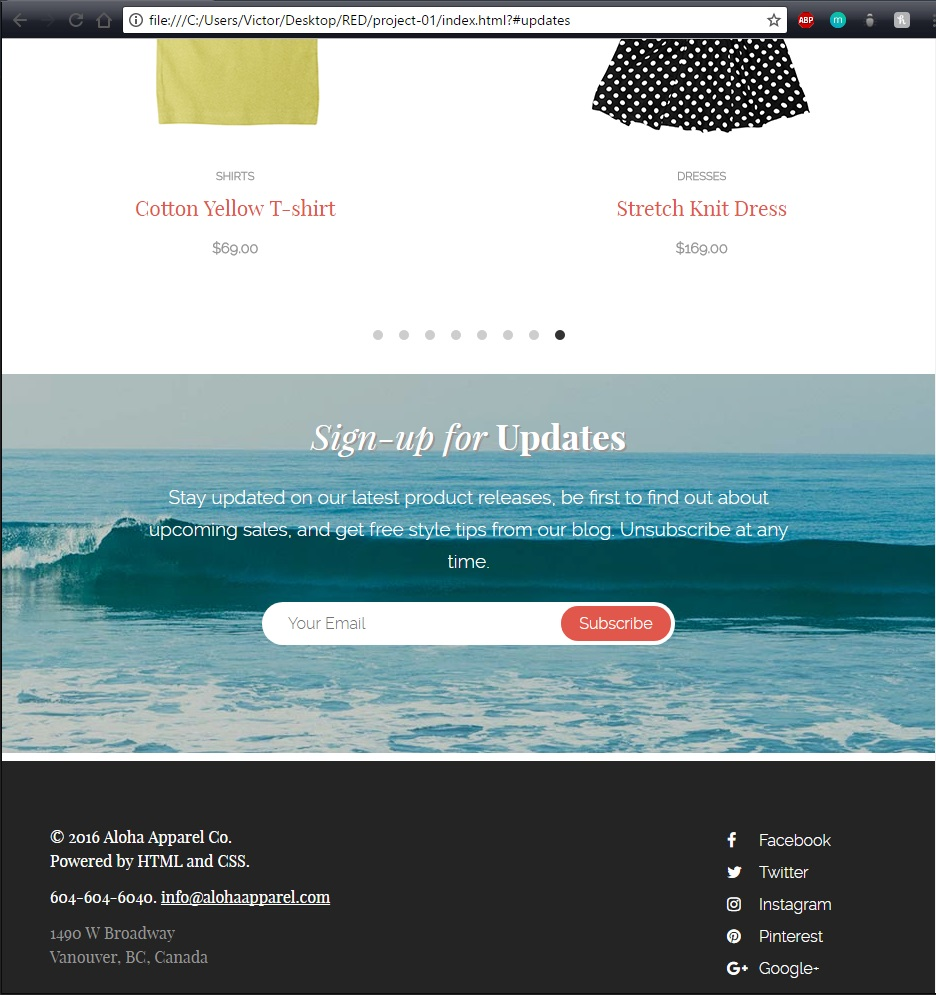
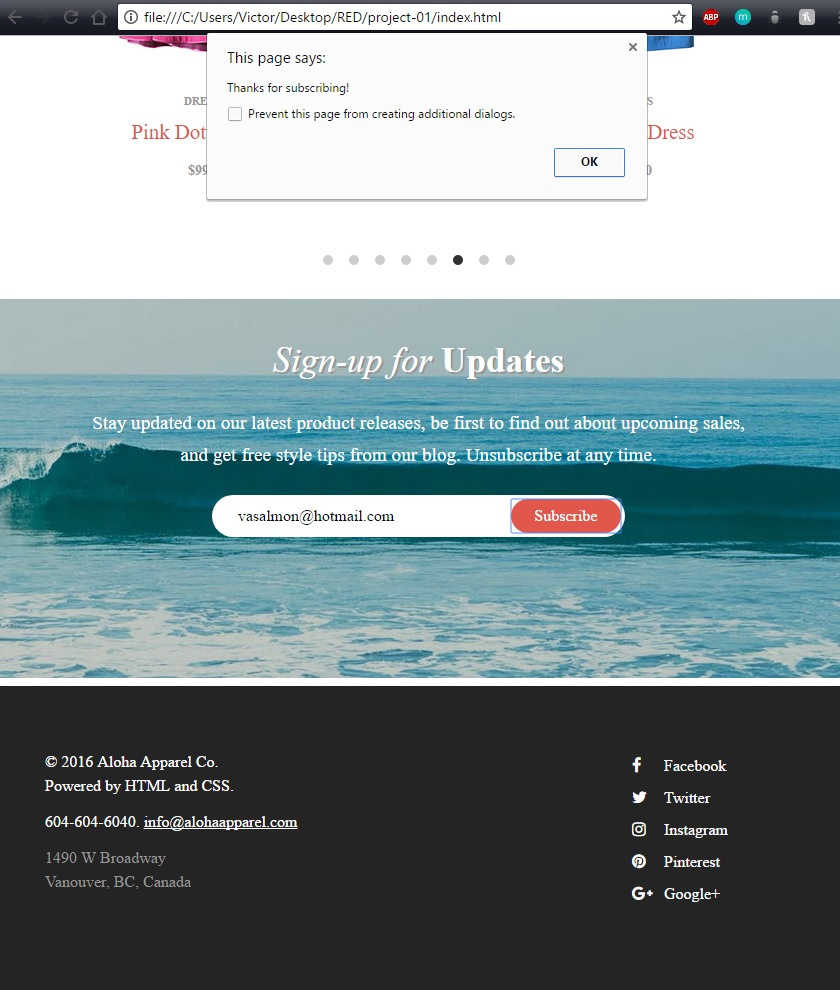
Readme copy written to Carousel. Tablet e-mail image modified

diff --git a/README.md b/README.md
@@ -1,10 +1,51 @@
 # Aloha Apparel Co.
-### RED Academy Portfolio Project 01
+RED Academy Portfolio Project 01
 
 ## Mobile-First, Intuitive Layout
-The mobile-first approach styles for any browser and uses media queries to modify the styles along break-points at min-width: 600px for tablets and min-width: 1240 px for desktop.
+This apparel sales website uses a responsive, mobile-first approach through scalable units, percentages, and CSS media queries to modify mobile styles along break-points and optimize use for tablets (600px) and desktops (1240px).
 
-[<img src="http://www.google.com.au/images/nav_logo7.png">](http://google.com.au/)
+## Navigation
+Compact, easy to use navigation menus clearly expose the layout while incorporating smooth scrolling. If we view the page first as a Tablet, we see a clean looking header.
+[<img src="https://github.com/vasalmon/aloha/blob/master/readme/Aloha%20Tablet%20Nav.jpg">](Aloha Nav on Tablet)
+
+The responsive mobile-first design uses an elegant flexbox solution to quickly and easily compact the width of the header by shifting the order of the flexbox items, pushing the nav to another row and creating a light border.
+[<img src="https://github.com/vasalmon/aloha/blob/master/readme/Aloha%20Mobile%20Nav.jpg">](Aloha Nav on Mobile)
+
+The view from Desktop is similar to Tablet but images are larger for a richer experience.
+[<img src="https://github.com/vasalmon/aloha/blob/master/readme/Aloha%20Desk%20Nav.jpg">](Aloha Nav on Desktop)
+
+## Shop
+The shopping area maximizes its use of visual real estate filling as much of the screen with images as possible while retaining a minimal design.
+[<img src="https://github.com/vasalmon/aloha/blob/master/readme/Aloha%20Mobile%20Shop.jpg">](Aloha Shop on Mobile)
+
+In Tablet, flexbox easily pops the tiles onto two lines making better use of the additional width.
+[<img src="https://github.com/vasalmon/aloha/blob/master/readme/Aloha%20Tablet%20Shop.jpg">](Aloha Shop on Tablet)
+
+Finally, in Desktop, the tiles continue to scale to make use of the space available.
+[<img src="https://github.com/vasalmon/aloha/blob/master/readme/Aloha%20Desk%20Shop.jpg">](Aloha Shop on Desktop)
+
+## Carousel: Flickity
+The carousel is a jQuery implementation of Flickity with its options set for the cleanest experience. The autoPlay and wrapAround are enabled while the previous and next arrows are disabled for an understated but continuous experience.
+[<img src="https://github.com/vasalmon/aloha/blob/master/readme/Aloha%20Mobile%20Carousel.jpg">](Aloha Carousel on Mobile).
+
+As space is available the carousel expands to show more results (2 per line on tablet).
+[<img src="https://github.com/vasalmon/aloha/blob/master/readme/Aloha%20Tablet%20Carousel.jpg">](Aloha Carousel on Tablet)
+
+As more space becomes available, the carousel comes alive showcasing 4 results at a time.
+[<img src="https://github.com/vasalmon/aloha/blob/master/readme/Aloha%20Desk%20Carousel.jpg">](Aloha Carousel on Desktop)
+
+## Email Subscription
+One function of the Aloha Apparel website is to allow for e-mail submission. Using Javascript, the default behaviour of the submit button is modified to produce an alert box with some basic form validation.
+[<img src="https://github.com/vasalmon/aloha/blob/master/readme/Aloha%20Mobile%20Email.jpg">](Aloha Email on Mobile)
+
+[<img src="https://github.com/vasalmon/aloha/blob/master/readme/Aloha%20Desk%20Email.jpg">](Aloha Email on Desktop)
+[<img src="https://github.com/vasalmon/aloha/blob/master/readme/Aloha%20Tablet%20Email.jpg">](Aloha Email on Tablet)
+
+
+
+
+
+
 
 ## What I Learned
 
